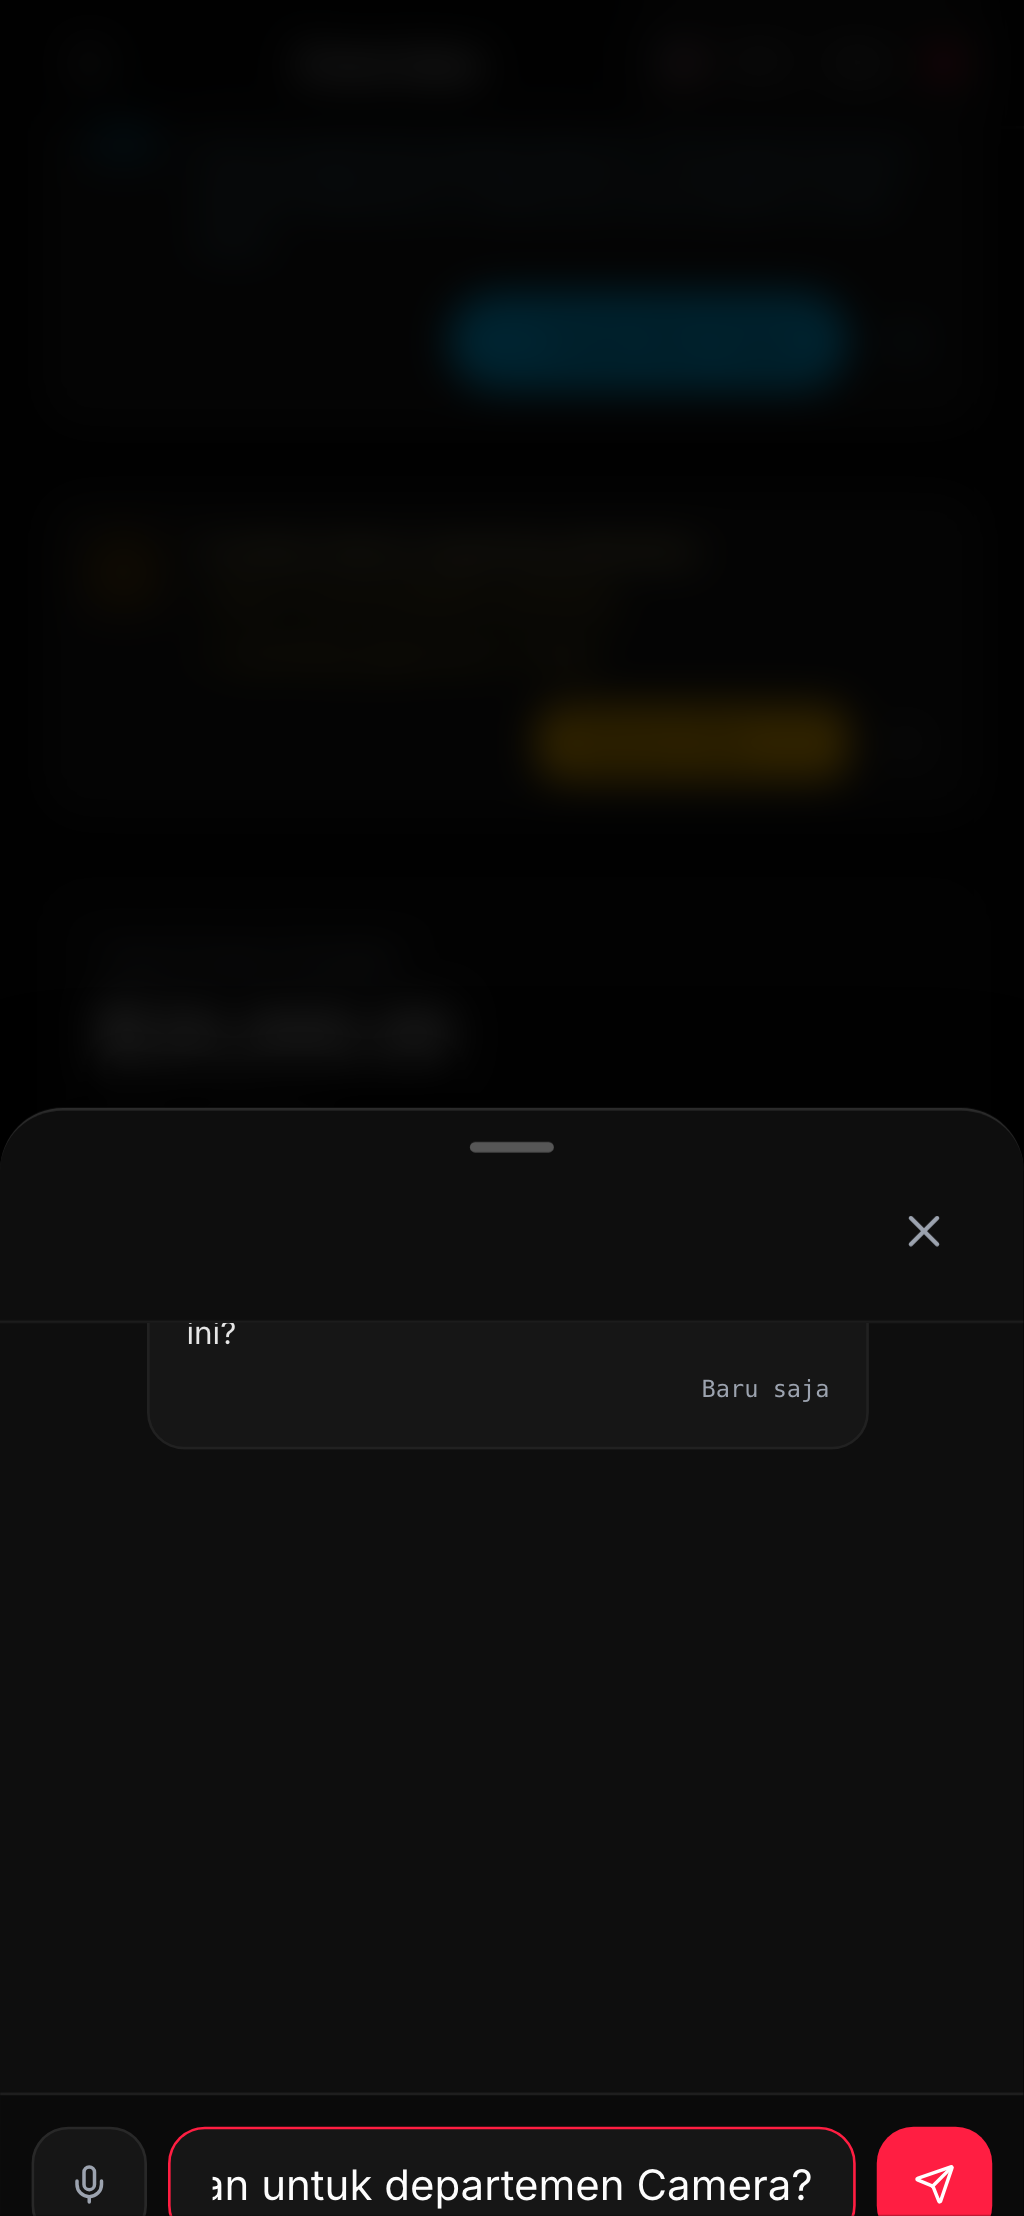
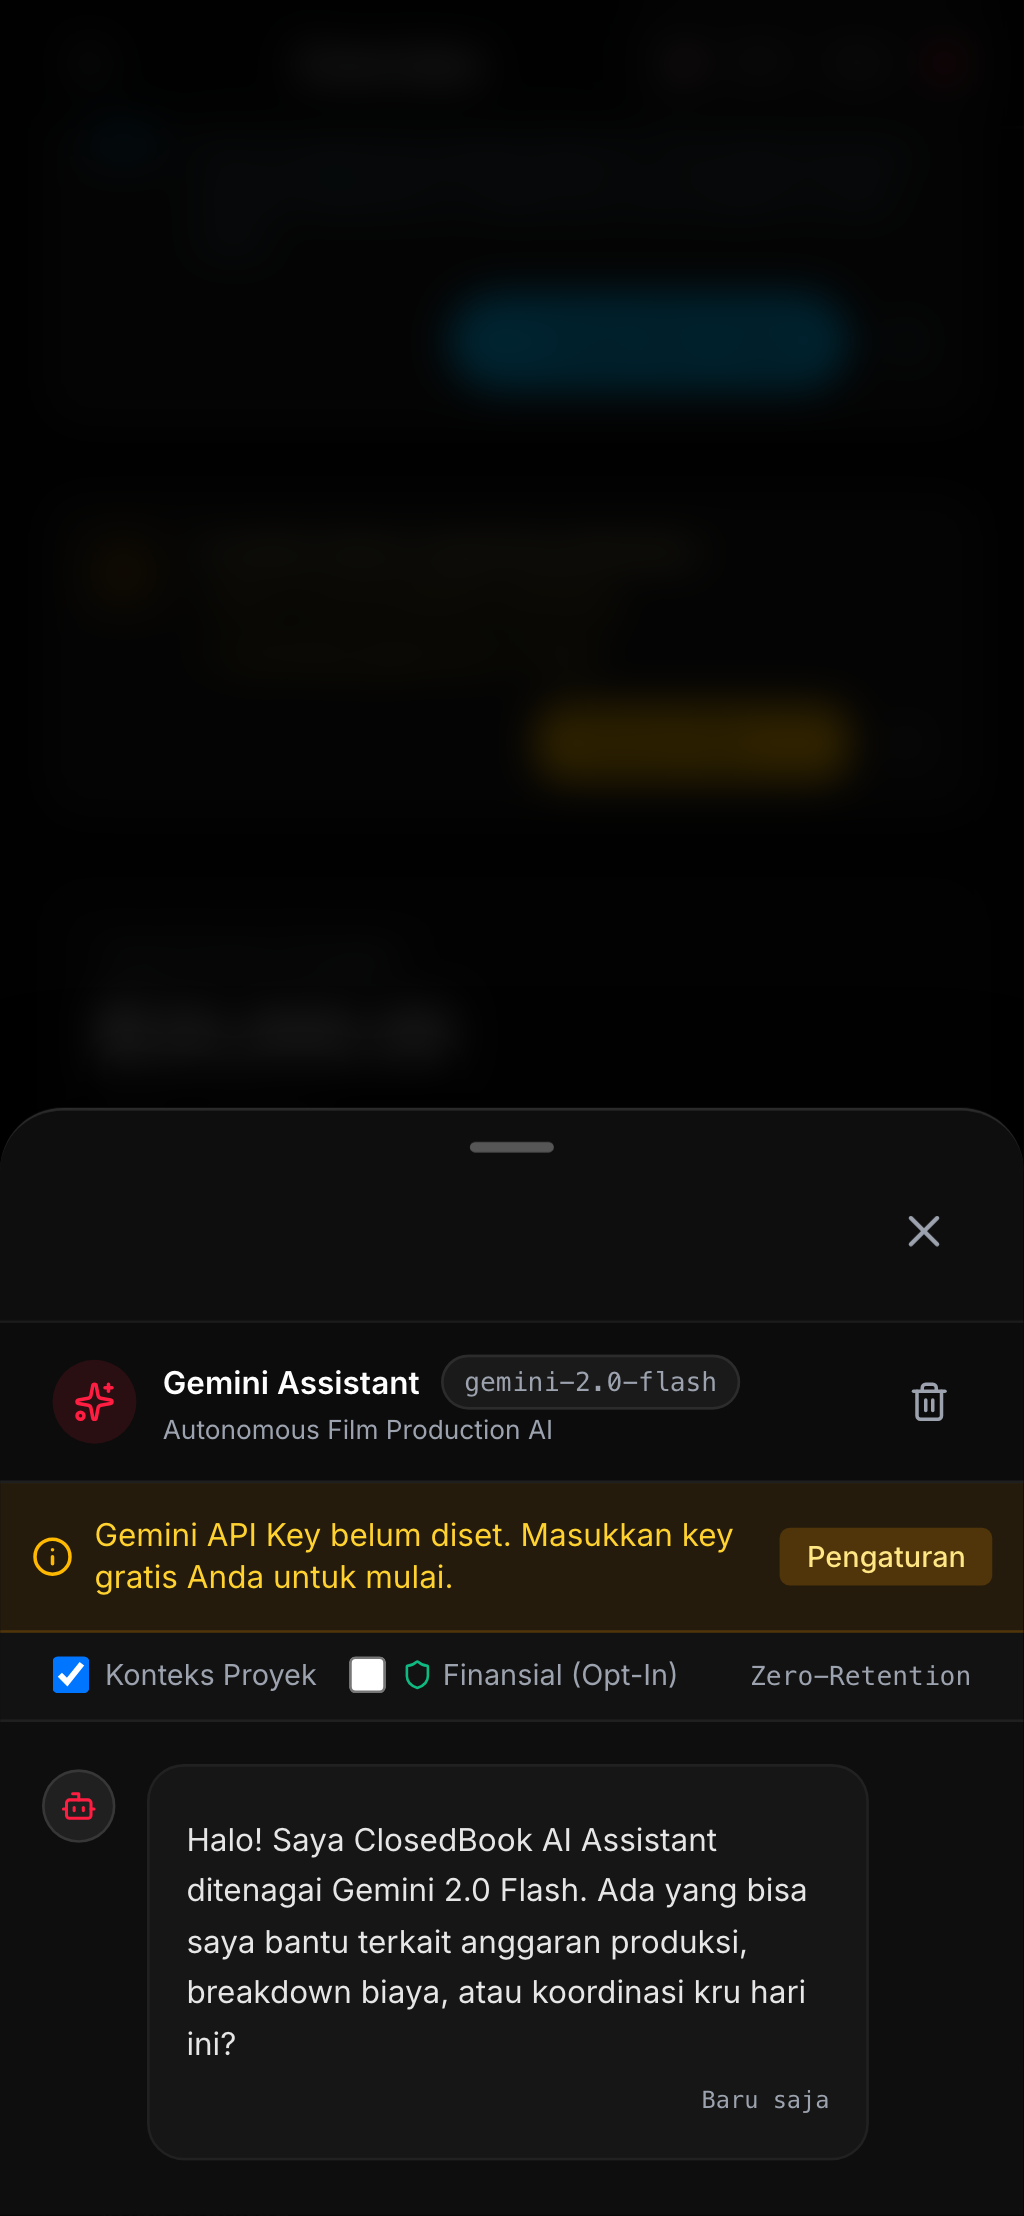
chore(g7): final production verification and metrics update

diff --git a/docs/metrics.md b/docs/metrics.md
@@ -44,8 +44,9 @@ Untuk menghilangkan ambiguitas antara ukuran chunk rute spesifik, shared vendor,
 | **G.2 PWA Hardening** | `/offline` | **2.45 KB** | **110 KB** | **~55 KB** | **100** | **100** | **100** |
 | **G.2 PWA Hardening** | `/` (Home) | **8.08 KB** | **138 KB** | **~71 KB** | **100** | **96** | **100** |
 | **G.2 PWA Hardening** | `/privacy`, `/terms` | **178 B** | **107 KB** | **~45 KB** | **100** | **100** | **100** |
+| **G.7 Gemini AI** | `/workspace` | **46.6 KB** | **241 KB** | **~245 KB** | **74** *(Mobile Prod)* | **96** | **100** |
 
-*Catatan: Nilai G.2 diukur dari Next.js 15.5.25 production build (`npm run build`) dan Lighthouse CI autorun pada 23 September 2026.*
+*Catatan: Nilai G.7 diukur dari Next.js 15.5.25 production build (`npm run build`) dan Lighthouse mobile audit pada 26 September 2026. Ukuran rute `/workspace` 46.6 KB berada jauh di bawah batas toleransi 60 KB.*
 
 ---
 
